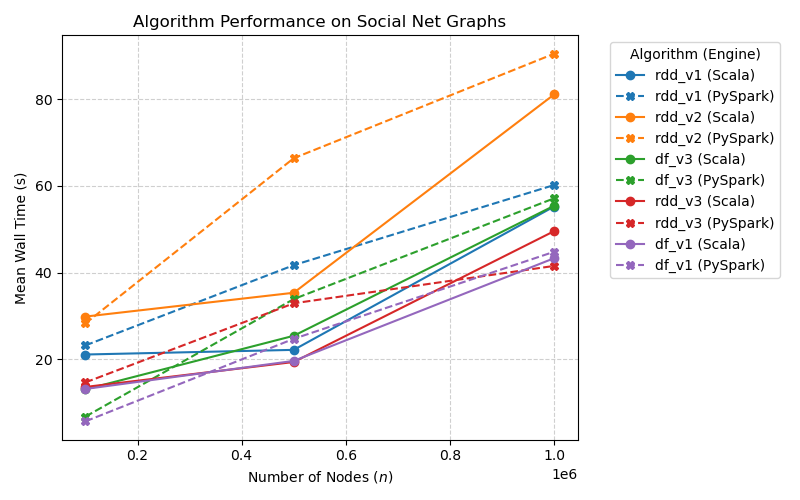
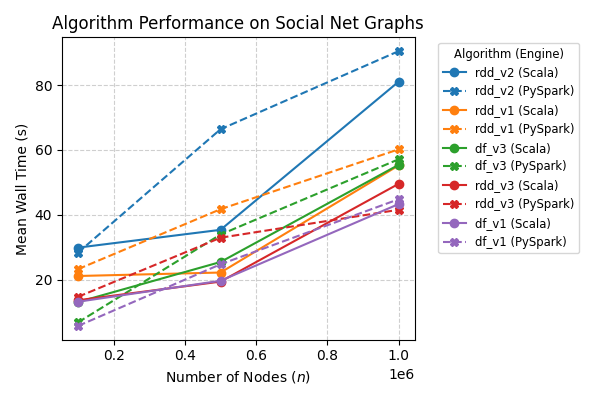
plots

diff --git a/utils/plot_and_generate_table.py b/utils/plot_and_generate_table.py
@@ -2,8 +2,8 @@ import pandas as pd
 import matplotlib.pyplot as plt
 import os
 
-py_path = os.path.join("results", "csv", "benchmark_pyspark.csv")
-sc_path = os.path.join("results", "csv", "benchmark_scala.csv")
+py_path = os.path.join("results", "csv", "full_benchmark_pyspark.csv")
+sc_path = os.path.join("results", "csv", "full_benchmark_scala.csv")
 
 df_py = pd.read_csv(py_path)
 df_sc = pd.read_csv(sc_path)
@@ -11,7 +11,7 @@ df_sc = pd.read_csv(sc_path)
 graph_types = pd.concat([df_py['graph_type'], df_sc['graph_type']]).unique()
 print("Generating plots...")
 for g_type in graph_types:
-    plt.figure(figsize=(8, 5))
+    plt.figure(figsize=(6, 4))
     
     subset_g_py = df_py[df_py['graph_type'] == g_type].sort_values(by='n_nodes')
     subset_g_sc = df_sc[df_sc['graph_type'] == g_type].sort_values(by='n_nodes')
@@ -40,7 +40,7 @@ for g_type in graph_types:
     plt.xlabel('Number of Nodes ($n$)')
     plt.ylabel('Mean Wall Time (s)')
     
-    plt.legend(title='Algorithm (Engine)', bbox_to_anchor=(1.05, 1), loc='upper left')
+    plt.legend(title='Algorithm (Engine)', bbox_to_anchor=(1.05, 1), loc='upper left', fontsize='small', title_fontsize='small')
     plt.grid(True, linestyle='--', alpha=0.6)
     plt.tight_layout()
     
